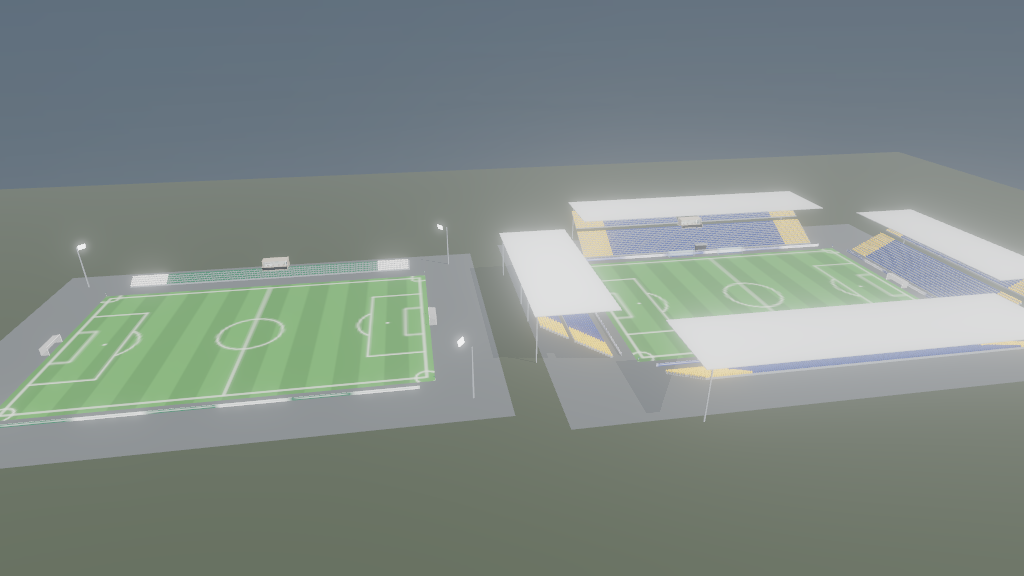
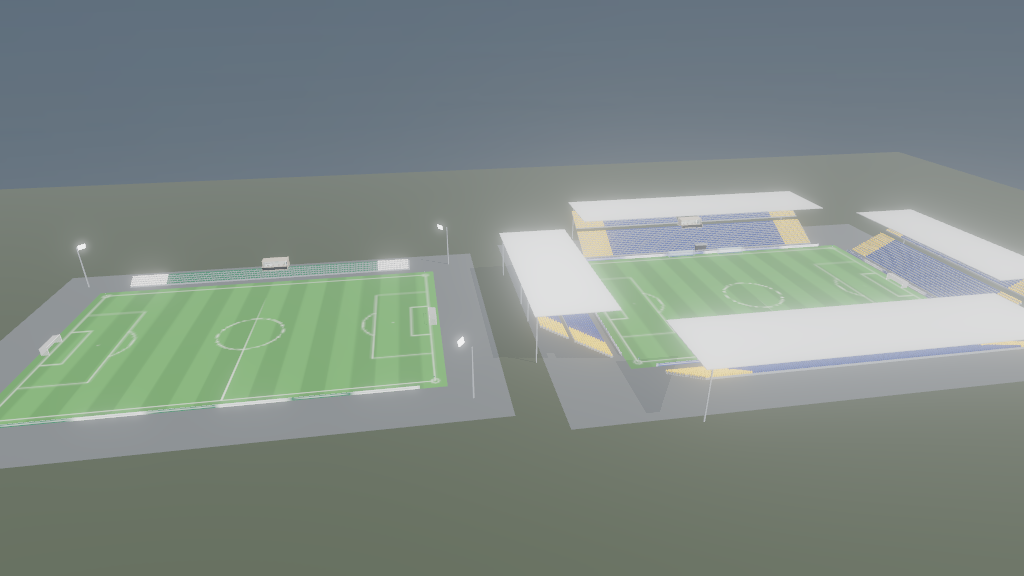
Fix pitch markings: drawn lines aligned to metric space — goals ON the goal lines
Bug (user-reported): the pitch texture drew its border inset in TEXTURE space
(px 20 on a 1024 canvas) while goals/flags stand at metric x=±L/2 = the plane
edge — leaving the goals ~2m beyond the drawn goal line, "au bout du terrain".

Fix: one metre→pixel transform (X/Z helpers) draws EVERY marking at true metric
coordinates, and the grass plane is (L+2m MARGIN)×(W+2m) so grass extends
beyond the lines as in reality. Verified top-down: goal lines pass through the
posts, regulation penalty areas/5.5m boxes/spots/arcs, centre circle, corner
arcs under the flags.

Also add a deploy guard (abort if the cwd has no .vercel project link) after
the earlier wrong-directory deploy incident.

Claude-Session: https://claude.ai/code/session_01Wt9EADKvaju1kbTzmg8tYk

diff --git a/examples/showcase/src/engine/stadium-builder.js b/examples/showcase/src/engine/stadium-builder.js
@@ -18,24 +18,34 @@ export function buildStadium(model, theme, { at = [0, 0, 0] } = {}) {
     return mesh;
   };
 
-  // pitch + markings (canvas), surrounding apron
+  // pitch + markings (canvas), surrounding apron. ONE metre→pixel transform draws every line, and the
+  // grass plane is (L+2m)×(W+2m) with MARGIN of grass beyond the lines — so the DRAWN goal line sits at
+  // exactly x=±L/2 in world space, where the goals/flags stand. (Bug fixed: the border used to be inset
+  // in texture space, leaving the goals ~2 m behind the drawn line.)
   const { L, W } = model.pitch;
-  const pc = document.createElement('canvas'); pc.width = 1024; pc.height = 664; const pg = pc.getContext('2d');
-  for (let i = 0; i < 16; i++) { pg.fillStyle = i % 2 ? '#3f9a3f' : '#368636'; pg.fillRect(i / 16 * 1024, 0, 64, 664); }
-  pg.strokeStyle = '#eef4ee'; pg.lineWidth = 4; pg.strokeRect(20, 20, 984, 624);
-  pg.beginPath(); pg.moveTo(512, 20); pg.lineTo(512, 644); pg.stroke(); pg.beginPath(); pg.arc(512, 332, 88, 0, 7); pg.stroke();
-  const sx = 984 / L, sz = 624 / W;                                   // metres → px
+  const MARGIN = 3, PW2 = L + 2 * MARGIN, PH2 = W + 2 * MARGIN;
+  const pc = document.createElement('canvas'); pc.width = 1110; pc.height = 740; const pg = pc.getContext('2d');
+  const kx = pc.width / PW2, kz = pc.height / PH2;
+  const X = (xm) => (xm + PW2 / 2) * kx, Z = (zm) => (zm + PH2 / 2) * kz;
+  for (let i = 0; i < 18; i++) { pg.fillStyle = i % 2 ? '#3f9a3f' : '#368636'; pg.fillRect(i / 18 * pc.width, 0, pc.width / 18 + 1, pc.height); }
+  pg.strokeStyle = '#eef4ee'; pg.lineWidth = Math.max(2, 0.12 * kx);
+  pg.strokeRect(X(-L / 2), Z(-W / 2), L * kx, W * kz);                                   // lignes de touche + de but
+  pg.beginPath(); pg.moveTo(X(0), Z(-W / 2)); pg.lineTo(X(0), Z(W / 2)); pg.stroke();    // médiane
+  pg.beginPath(); pg.arc(X(0), Z(0), 9.15 * kx, 0, 7); pg.stroke();                      // rond central
+  pg.fillStyle = '#eef4ee'; pg.beginPath(); pg.arc(X(0), Z(0), 0.25 * kx, 0, 7); pg.fill();
   for (const side of [-1, 1]) {
-    const gx = side < 0 ? 20 : 1004;                                  // goal line px
-    const dir = side < 0 ? 1 : -1;
-    pg.strokeRect(Math.min(gx, gx + dir * 16.5 * sx), 332 - 20.16 * sz, 16.5 * sx, 40.32 * sz);   // surface de réparation
-    pg.strokeRect(Math.min(gx, gx + dir * 5.5 * sx), 332 - 9.16 * sz, 5.5 * sx, 18.32 * sz);      // 5,5 m
-    pg.fillStyle = '#eef4ee'; pg.beginPath(); pg.arc(gx + dir * 11 * sx, 332, 4, 0, 7); pg.fill();  // point de penalty
-    pg.beginPath(); pg.arc(gx + dir * 11 * sx, 332, 9.15 * sx, side < 0 ? -0.94 : Math.PI - 0.94, side < 0 ? 0.94 : Math.PI + 0.94); pg.stroke();
+    const gx = side * L / 2, dir = -side;                                                // vers le centre
+    pg.strokeRect(Math.min(X(gx), X(gx + dir * 16.5)), Z(-20.16), 16.5 * kx, 40.32 * kz); // surface de réparation
+    pg.strokeRect(Math.min(X(gx), X(gx + dir * 5.5)), Z(-9.16), 5.5 * kx, 18.32 * kz);    // 5,5 m
+    pg.beginPath(); pg.arc(X(gx + dir * 11), Z(0), 0.25 * kx, 0, 7); pg.fill();           // point de penalty
+    const a0 = side < 0 ? -0.94 : Math.PI - 0.94, a1 = side < 0 ? 0.94 : Math.PI + 0.94;
+    pg.beginPath(); pg.arc(X(gx + dir * 11), Z(0), 9.15 * kx, a0, a1); pg.stroke();       // arc de réparation
   }
-  for (const cx of [20, 1004]) for (const cy of [20, 644]) { pg.beginPath(); pg.arc(cx, cy, 1 * sx * 3, 0, 7); pg.stroke(); }
+  for (const cx of [-L / 2, L / 2]) for (const cz of [-W / 2, W / 2]) {                   // arcs de corner (1 m)
+    pg.beginPath(); pg.arc(X(cx), Z(cz), 1 * kx, 0, 7); pg.stroke();
+  }
   const ptex = new THREE.CanvasTexture(pc); ptex.colorSpace = THREE.SRGBColorSpace; disposables.push(ptex);
-  const pgeo = new THREE.PlaneGeometry(L, W); pgeo.rotateX(-Math.PI / 2); disposables.push(pgeo);
+  const pgeo = new THREE.PlaneGeometry(PW2, PH2); pgeo.rotateX(-Math.PI / 2); disposables.push(pgeo);
   const pitch = new THREE.Mesh(pgeo, mat({ map: ptex, roughness: 0.95 })); pitch.receiveShadow = true; group.add(pitch);
   const agеo = new THREE.PlaneGeometry(L + 2 * (model.apron + model.stands[0].rows * model.rowD + 8), W + 2 * (model.apron + model.stands[0].rows * model.rowD + 8));
   agеo.rotateX(-Math.PI / 2); disposables.push(agеo);

diff --git a/examples/soldier-volley/src/engine/stadium-builder.js b/examples/soldier-volley/src/engine/stadium-builder.js
@@ -18,24 +18,34 @@ export function buildStadium(model, theme, { at = [0, 0, 0] } = {}) {
     return mesh;
   };
 
-  // pitch + markings (canvas), surrounding apron
+  // pitch + markings (canvas), surrounding apron. ONE metre→pixel transform draws every line, and the
+  // grass plane is (L+2m)×(W+2m) with MARGIN of grass beyond the lines — so the DRAWN goal line sits at
+  // exactly x=±L/2 in world space, where the goals/flags stand. (Bug fixed: the border used to be inset
+  // in texture space, leaving the goals ~2 m behind the drawn line.)
   const { L, W } = model.pitch;
-  const pc = document.createElement('canvas'); pc.width = 1024; pc.height = 664; const pg = pc.getContext('2d');
-  for (let i = 0; i < 16; i++) { pg.fillStyle = i % 2 ? '#3f9a3f' : '#368636'; pg.fillRect(i / 16 * 1024, 0, 64, 664); }
-  pg.strokeStyle = '#eef4ee'; pg.lineWidth = 4; pg.strokeRect(20, 20, 984, 624);
-  pg.beginPath(); pg.moveTo(512, 20); pg.lineTo(512, 644); pg.stroke(); pg.beginPath(); pg.arc(512, 332, 88, 0, 7); pg.stroke();
-  const sx = 984 / L, sz = 624 / W;                                   // metres → px
+  const MARGIN = 3, PW2 = L + 2 * MARGIN, PH2 = W + 2 * MARGIN;
+  const pc = document.createElement('canvas'); pc.width = 1110; pc.height = 740; const pg = pc.getContext('2d');
+  const kx = pc.width / PW2, kz = pc.height / PH2;
+  const X = (xm) => (xm + PW2 / 2) * kx, Z = (zm) => (zm + PH2 / 2) * kz;
+  for (let i = 0; i < 18; i++) { pg.fillStyle = i % 2 ? '#3f9a3f' : '#368636'; pg.fillRect(i / 18 * pc.width, 0, pc.width / 18 + 1, pc.height); }
+  pg.strokeStyle = '#eef4ee'; pg.lineWidth = Math.max(2, 0.12 * kx);
+  pg.strokeRect(X(-L / 2), Z(-W / 2), L * kx, W * kz);                                   // lignes de touche + de but
+  pg.beginPath(); pg.moveTo(X(0), Z(-W / 2)); pg.lineTo(X(0), Z(W / 2)); pg.stroke();    // médiane
+  pg.beginPath(); pg.arc(X(0), Z(0), 9.15 * kx, 0, 7); pg.stroke();                      // rond central
+  pg.fillStyle = '#eef4ee'; pg.beginPath(); pg.arc(X(0), Z(0), 0.25 * kx, 0, 7); pg.fill();
   for (const side of [-1, 1]) {
-    const gx = side < 0 ? 20 : 1004;                                  // goal line px
-    const dir = side < 0 ? 1 : -1;
-    pg.strokeRect(Math.min(gx, gx + dir * 16.5 * sx), 332 - 20.16 * sz, 16.5 * sx, 40.32 * sz);   // surface de réparation
-    pg.strokeRect(Math.min(gx, gx + dir * 5.5 * sx), 332 - 9.16 * sz, 5.5 * sx, 18.32 * sz);      // 5,5 m
-    pg.fillStyle = '#eef4ee'; pg.beginPath(); pg.arc(gx + dir * 11 * sx, 332, 4, 0, 7); pg.fill();  // point de penalty
-    pg.beginPath(); pg.arc(gx + dir * 11 * sx, 332, 9.15 * sx, side < 0 ? -0.94 : Math.PI - 0.94, side < 0 ? 0.94 : Math.PI + 0.94); pg.stroke();
+    const gx = side * L / 2, dir = -side;                                                // vers le centre
+    pg.strokeRect(Math.min(X(gx), X(gx + dir * 16.5)), Z(-20.16), 16.5 * kx, 40.32 * kz); // surface de réparation
+    pg.strokeRect(Math.min(X(gx), X(gx + dir * 5.5)), Z(-9.16), 5.5 * kx, 18.32 * kz);    // 5,5 m
+    pg.beginPath(); pg.arc(X(gx + dir * 11), Z(0), 0.25 * kx, 0, 7); pg.fill();           // point de penalty
+    const a0 = side < 0 ? -0.94 : Math.PI - 0.94, a1 = side < 0 ? 0.94 : Math.PI + 0.94;
+    pg.beginPath(); pg.arc(X(gx + dir * 11), Z(0), 9.15 * kx, a0, a1); pg.stroke();       // arc de réparation
   }
-  for (const cx of [20, 1004]) for (const cy of [20, 644]) { pg.beginPath(); pg.arc(cx, cy, 1 * sx * 3, 0, 7); pg.stroke(); }
+  for (const cx of [-L / 2, L / 2]) for (const cz of [-W / 2, W / 2]) {                   // arcs de corner (1 m)
+    pg.beginPath(); pg.arc(X(cx), Z(cz), 1 * kx, 0, 7); pg.stroke();
+  }
   const ptex = new THREE.CanvasTexture(pc); ptex.colorSpace = THREE.SRGBColorSpace; disposables.push(ptex);
-  const pgeo = new THREE.PlaneGeometry(L, W); pgeo.rotateX(-Math.PI / 2); disposables.push(pgeo);
+  const pgeo = new THREE.PlaneGeometry(PW2, PH2); pgeo.rotateX(-Math.PI / 2); disposables.push(pgeo);
   const pitch = new THREE.Mesh(pgeo, mat({ map: ptex, roughness: 0.95 })); pitch.receiveShadow = true; group.add(pitch);
   const agеo = new THREE.PlaneGeometry(L + 2 * (model.apron + model.stands[0].rows * model.rowD + 8), W + 2 * (model.apron + model.stands[0].rows * model.rowD + 8));
   agеo.rotateX(-Math.PI / 2); disposables.push(agеo);

diff --git a/skills/threejs-aaa/assets/starter/src/engine/stadium-builder.js b/skills/threejs-aaa/assets/starter/src/engine/stadium-builder.js
@@ -18,24 +18,34 @@ export function buildStadium(model, theme, { at = [0, 0, 0] } = {}) {
     return mesh;
   };
 
-  // pitch + markings (canvas), surrounding apron
+  // pitch + markings (canvas), surrounding apron. ONE metre→pixel transform draws every line, and the
+  // grass plane is (L+2m)×(W+2m) with MARGIN of grass beyond the lines — so the DRAWN goal line sits at
+  // exactly x=±L/2 in world space, where the goals/flags stand. (Bug fixed: the border used to be inset
+  // in texture space, leaving the goals ~2 m behind the drawn line.)
   const { L, W } = model.pitch;
-  const pc = document.createElement('canvas'); pc.width = 1024; pc.height = 664; const pg = pc.getContext('2d');
-  for (let i = 0; i < 16; i++) { pg.fillStyle = i % 2 ? '#3f9a3f' : '#368636'; pg.fillRect(i / 16 * 1024, 0, 64, 664); }
-  pg.strokeStyle = '#eef4ee'; pg.lineWidth = 4; pg.strokeRect(20, 20, 984, 624);
-  pg.beginPath(); pg.moveTo(512, 20); pg.lineTo(512, 644); pg.stroke(); pg.beginPath(); pg.arc(512, 332, 88, 0, 7); pg.stroke();
-  const sx = 984 / L, sz = 624 / W;                                   // metres → px
+  const MARGIN = 3, PW2 = L + 2 * MARGIN, PH2 = W + 2 * MARGIN;
+  const pc = document.createElement('canvas'); pc.width = 1110; pc.height = 740; const pg = pc.getContext('2d');
+  const kx = pc.width / PW2, kz = pc.height / PH2;
+  const X = (xm) => (xm + PW2 / 2) * kx, Z = (zm) => (zm + PH2 / 2) * kz;
+  for (let i = 0; i < 18; i++) { pg.fillStyle = i % 2 ? '#3f9a3f' : '#368636'; pg.fillRect(i / 18 * pc.width, 0, pc.width / 18 + 1, pc.height); }
+  pg.strokeStyle = '#eef4ee'; pg.lineWidth = Math.max(2, 0.12 * kx);
+  pg.strokeRect(X(-L / 2), Z(-W / 2), L * kx, W * kz);                                   // lignes de touche + de but
+  pg.beginPath(); pg.moveTo(X(0), Z(-W / 2)); pg.lineTo(X(0), Z(W / 2)); pg.stroke();    // médiane
+  pg.beginPath(); pg.arc(X(0), Z(0), 9.15 * kx, 0, 7); pg.stroke();                      // rond central
+  pg.fillStyle = '#eef4ee'; pg.beginPath(); pg.arc(X(0), Z(0), 0.25 * kx, 0, 7); pg.fill();
   for (const side of [-1, 1]) {
-    const gx = side < 0 ? 20 : 1004;                                  // goal line px
-    const dir = side < 0 ? 1 : -1;
-    pg.strokeRect(Math.min(gx, gx + dir * 16.5 * sx), 332 - 20.16 * sz, 16.5 * sx, 40.32 * sz);   // surface de réparation
-    pg.strokeRect(Math.min(gx, gx + dir * 5.5 * sx), 332 - 9.16 * sz, 5.5 * sx, 18.32 * sz);      // 5,5 m
-    pg.fillStyle = '#eef4ee'; pg.beginPath(); pg.arc(gx + dir * 11 * sx, 332, 4, 0, 7); pg.fill();  // point de penalty
-    pg.beginPath(); pg.arc(gx + dir * 11 * sx, 332, 9.15 * sx, side < 0 ? -0.94 : Math.PI - 0.94, side < 0 ? 0.94 : Math.PI + 0.94); pg.stroke();
+    const gx = side * L / 2, dir = -side;                                                // vers le centre
+    pg.strokeRect(Math.min(X(gx), X(gx + dir * 16.5)), Z(-20.16), 16.5 * kx, 40.32 * kz); // surface de réparation
+    pg.strokeRect(Math.min(X(gx), X(gx + dir * 5.5)), Z(-9.16), 5.5 * kx, 18.32 * kz);    // 5,5 m
+    pg.beginPath(); pg.arc(X(gx + dir * 11), Z(0), 0.25 * kx, 0, 7); pg.fill();           // point de penalty
+    const a0 = side < 0 ? -0.94 : Math.PI - 0.94, a1 = side < 0 ? 0.94 : Math.PI + 0.94;
+    pg.beginPath(); pg.arc(X(gx + dir * 11), Z(0), 9.15 * kx, a0, a1); pg.stroke();       // arc de réparation
   }
-  for (const cx of [20, 1004]) for (const cy of [20, 644]) { pg.beginPath(); pg.arc(cx, cy, 1 * sx * 3, 0, 7); pg.stroke(); }
+  for (const cx of [-L / 2, L / 2]) for (const cz of [-W / 2, W / 2]) {                   // arcs de corner (1 m)
+    pg.beginPath(); pg.arc(X(cx), Z(cz), 1 * kx, 0, 7); pg.stroke();
+  }
   const ptex = new THREE.CanvasTexture(pc); ptex.colorSpace = THREE.SRGBColorSpace; disposables.push(ptex);
-  const pgeo = new THREE.PlaneGeometry(L, W); pgeo.rotateX(-Math.PI / 2); disposables.push(pgeo);
+  const pgeo = new THREE.PlaneGeometry(PW2, PH2); pgeo.rotateX(-Math.PI / 2); disposables.push(pgeo);
   const pitch = new THREE.Mesh(pgeo, mat({ map: ptex, roughness: 0.95 })); pitch.receiveShadow = true; group.add(pitch);
   const agеo = new THREE.PlaneGeometry(L + 2 * (model.apron + model.stands[0].rows * model.rowD + 8), W + 2 * (model.apron + model.stands[0].rows * model.rowD + 8));
   agеo.rotateX(-Math.PI / 2); disposables.push(agеo);
